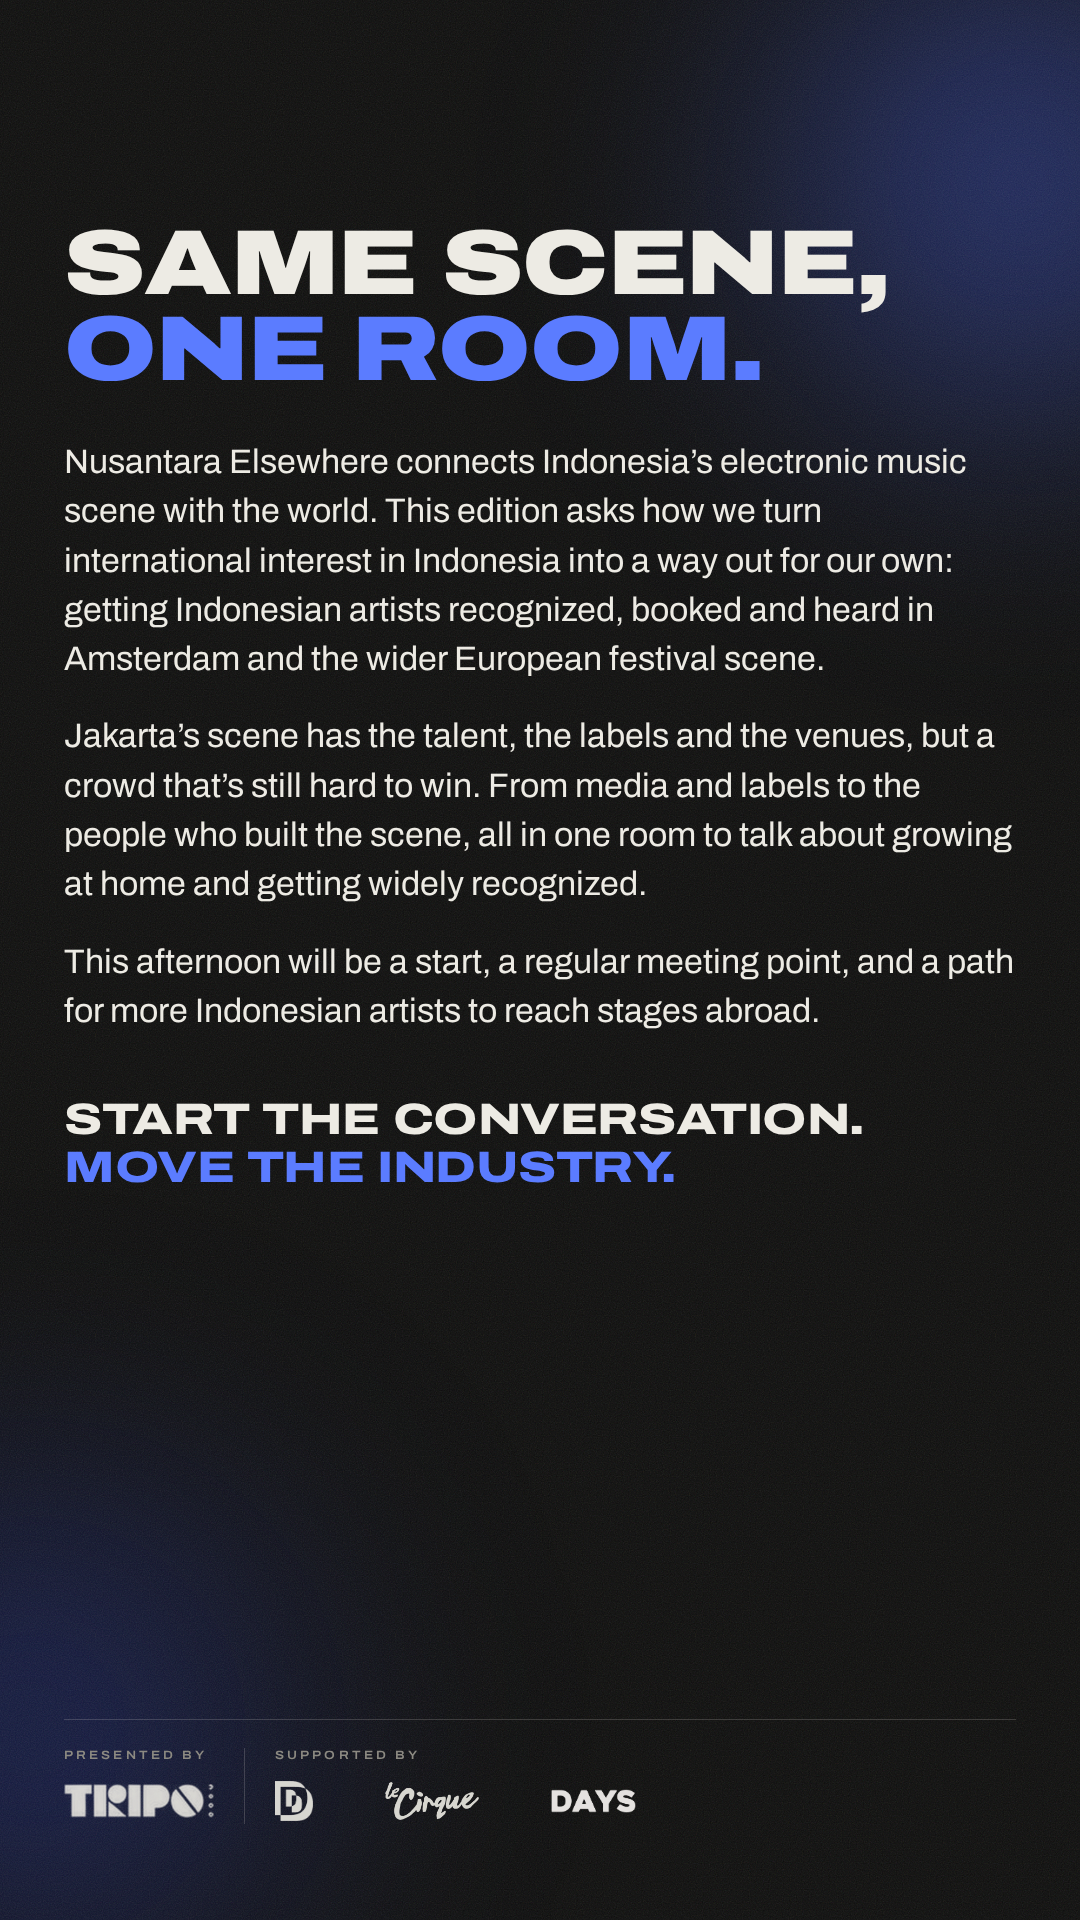
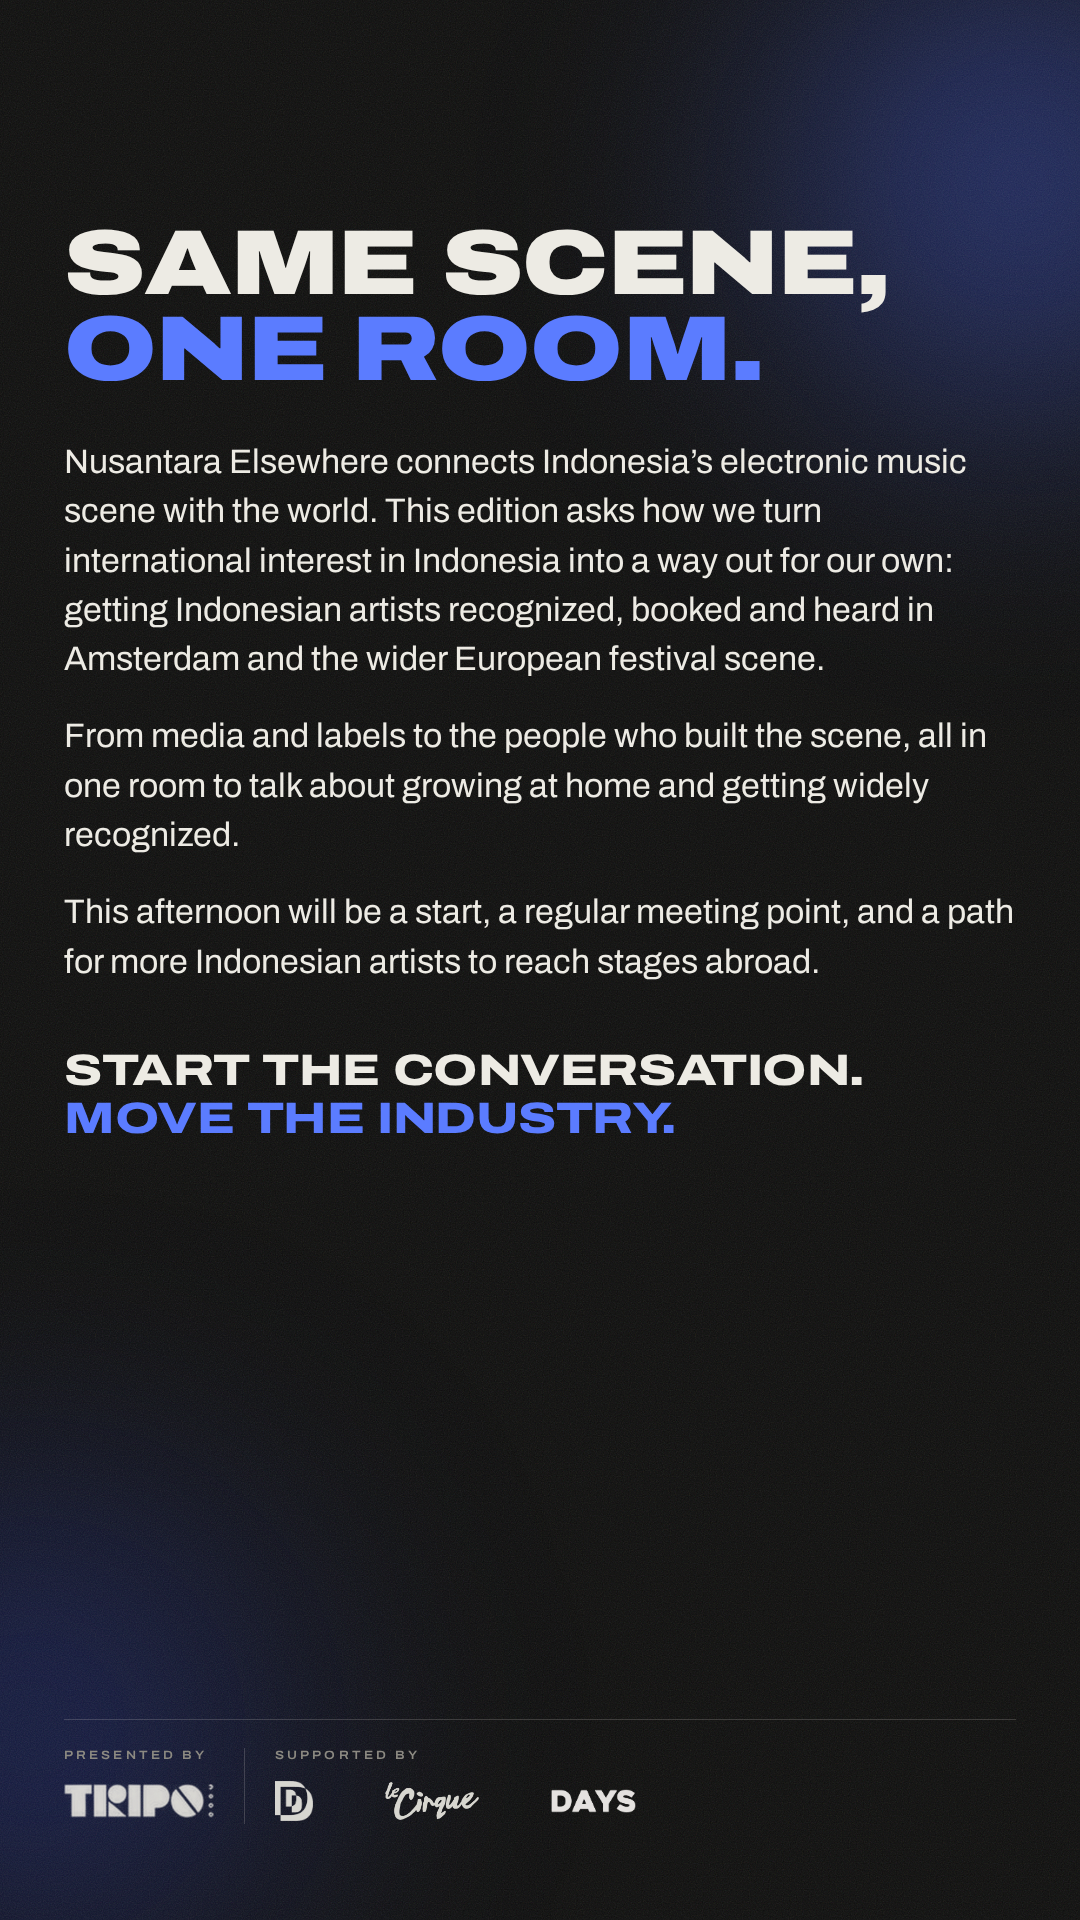
Why page: drop Jakarta sentence
Claude-Session: https://claude.ai/code/session_01Sc5gF2HRFqjLpMQDrx7aqZ

Changed region(s): [[0.0611, 0.375, 0.9472, 0.625]]

diff --git a/events/ade-community-talks-2026/rebrand/03-scene-amsterdam-nusantara.html b/events/ade-community-talks-2026/rebrand/03-scene-amsterdam-nusantara.html
@@ -16,7 +16,7 @@
   <div class="display" style="font-size:92px;line-height:.94;margin-top:0;white-space:nowrap">Same scene,<br><em>one room.</em></div>
 
   <div class="body" style="margin-top:44px">Nusantara Elsewhere connects Indonesia’s electronic music scene with the world. This edition asks how we turn international interest in Indonesia into a way out for our own: getting Indonesian artists recognized, booked and heard in Amsterdam and the wider European festival scene.</div>
-  <div class="body" style="margin-top:28px">Jakarta’s scene has the talent, the labels and the venues, but a crowd that’s still hard to win. From media and labels to the people who built the scene, all in one room to talk about growing at home and getting widely recognized.</div>
+  <div class="body" style="margin-top:28px">From media and labels to the people who built the scene, all in one room to talk about growing at home and getting widely recognized.</div>
   <div class="body" style="margin-top:28px">This afternoon will be a start, a regular meeting point, and a path for more Indonesian artists to reach stages abroad.</div>
 
   <div class="display" style="font-size:44px;font-weight:800;margin-top:60px">Start the conversation.<br><em>Move the industry.</em></div>
